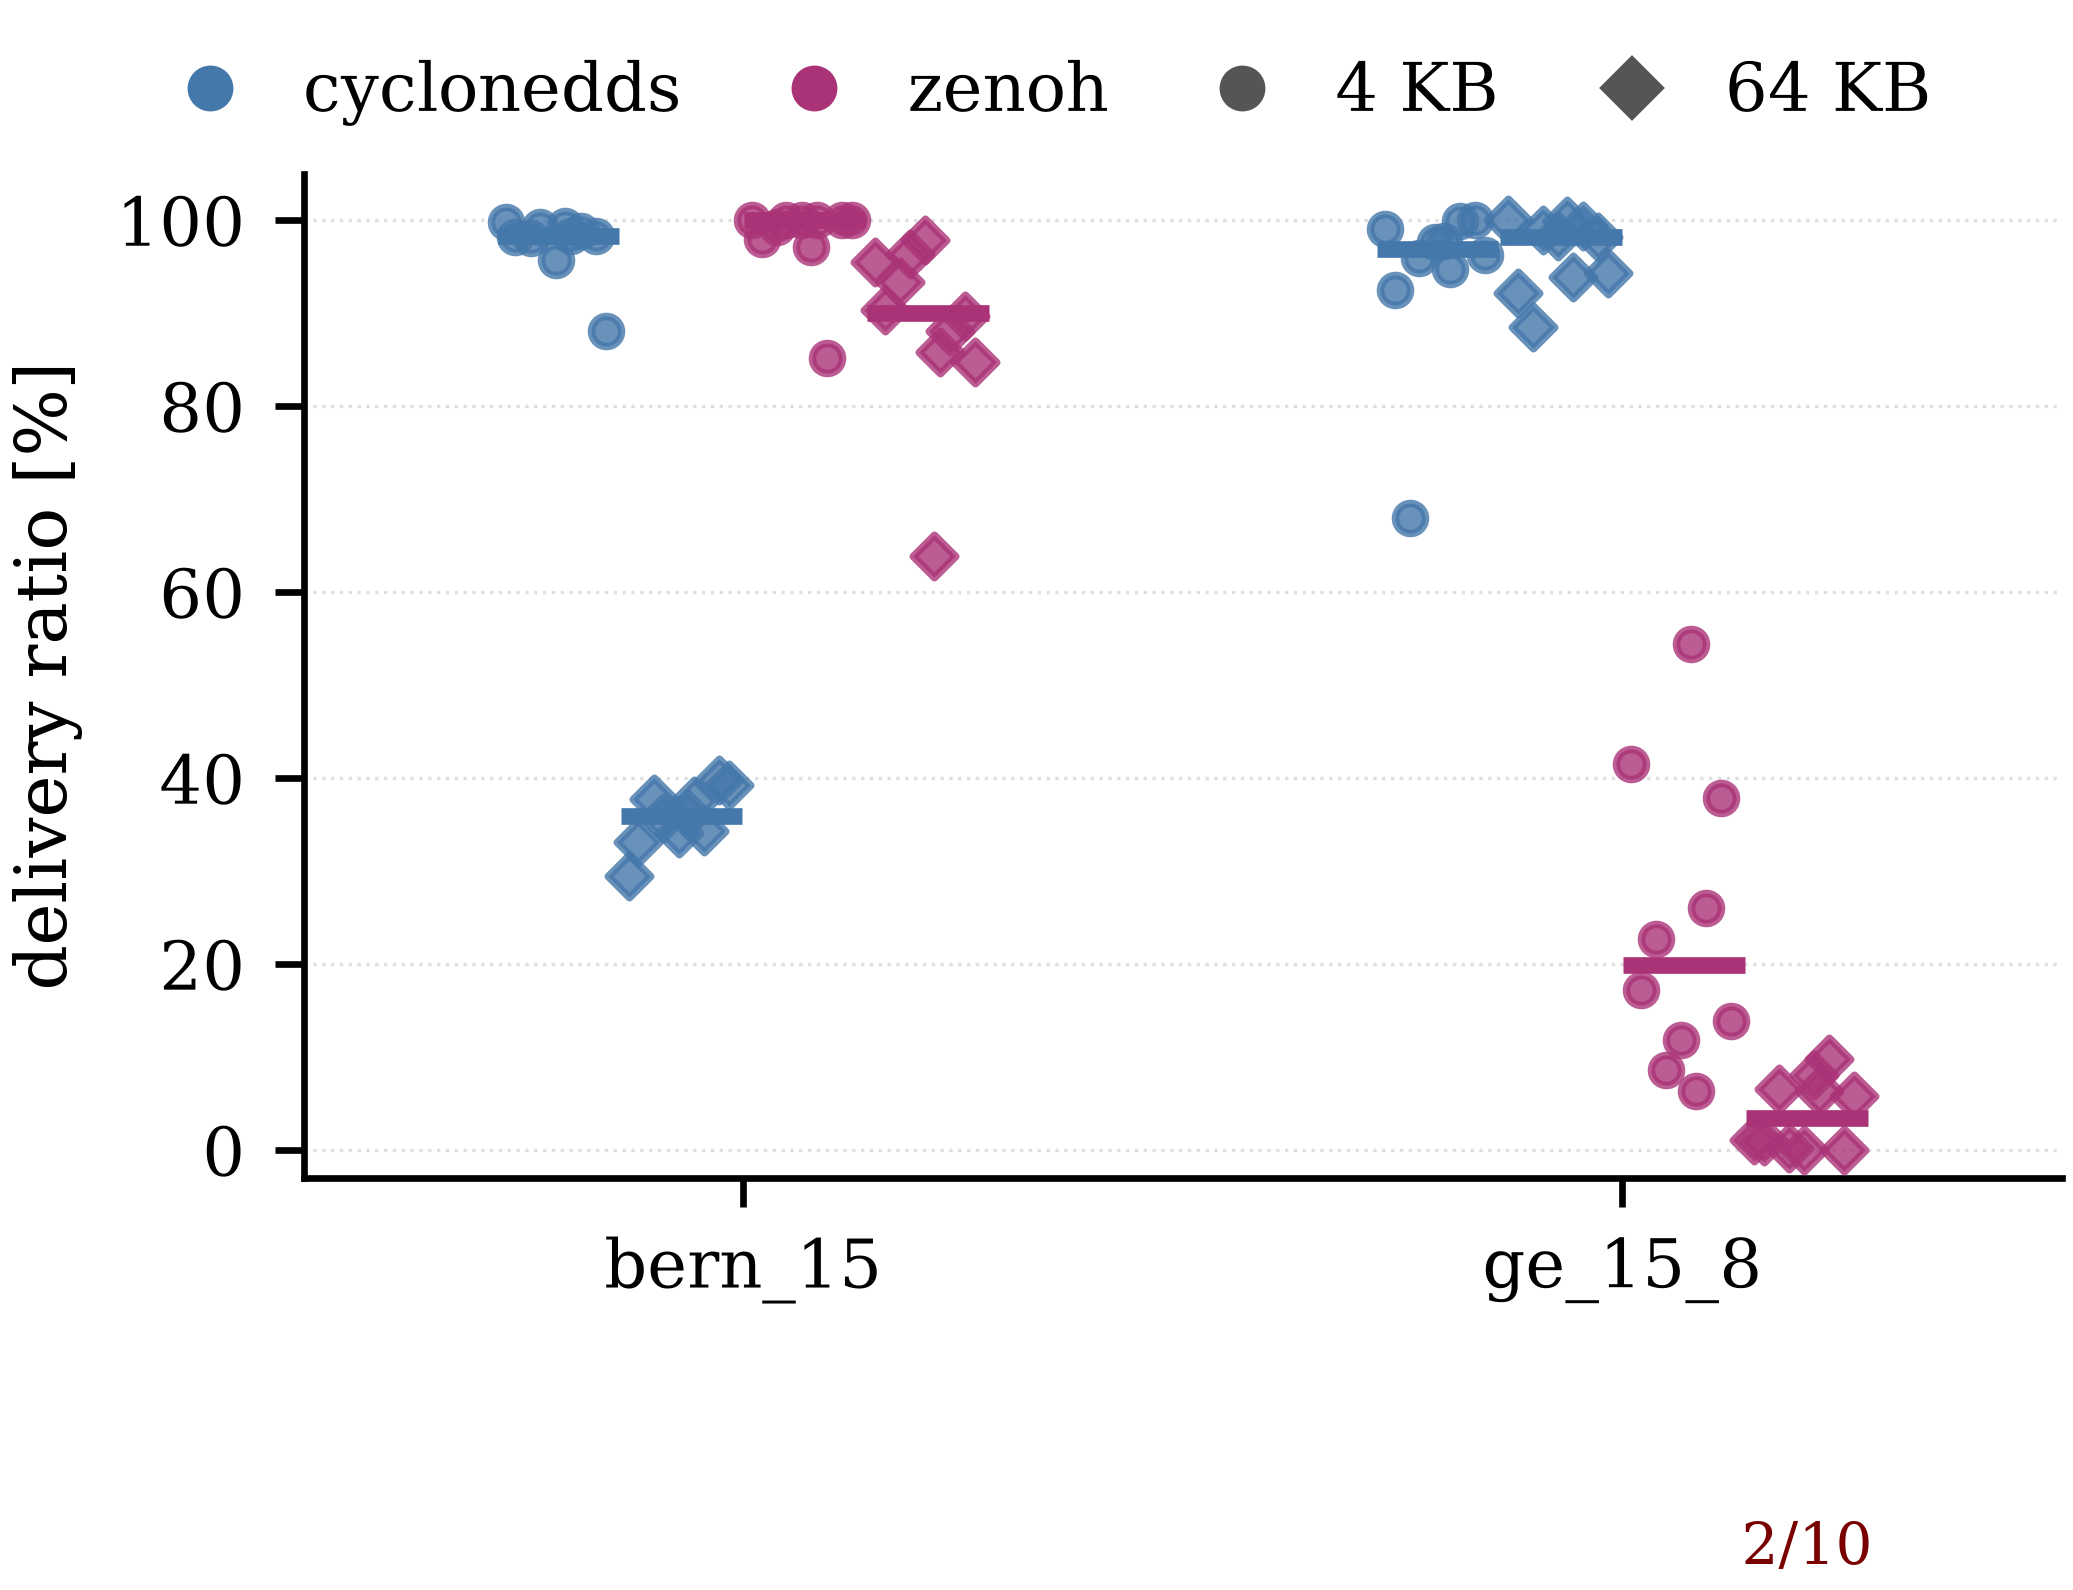
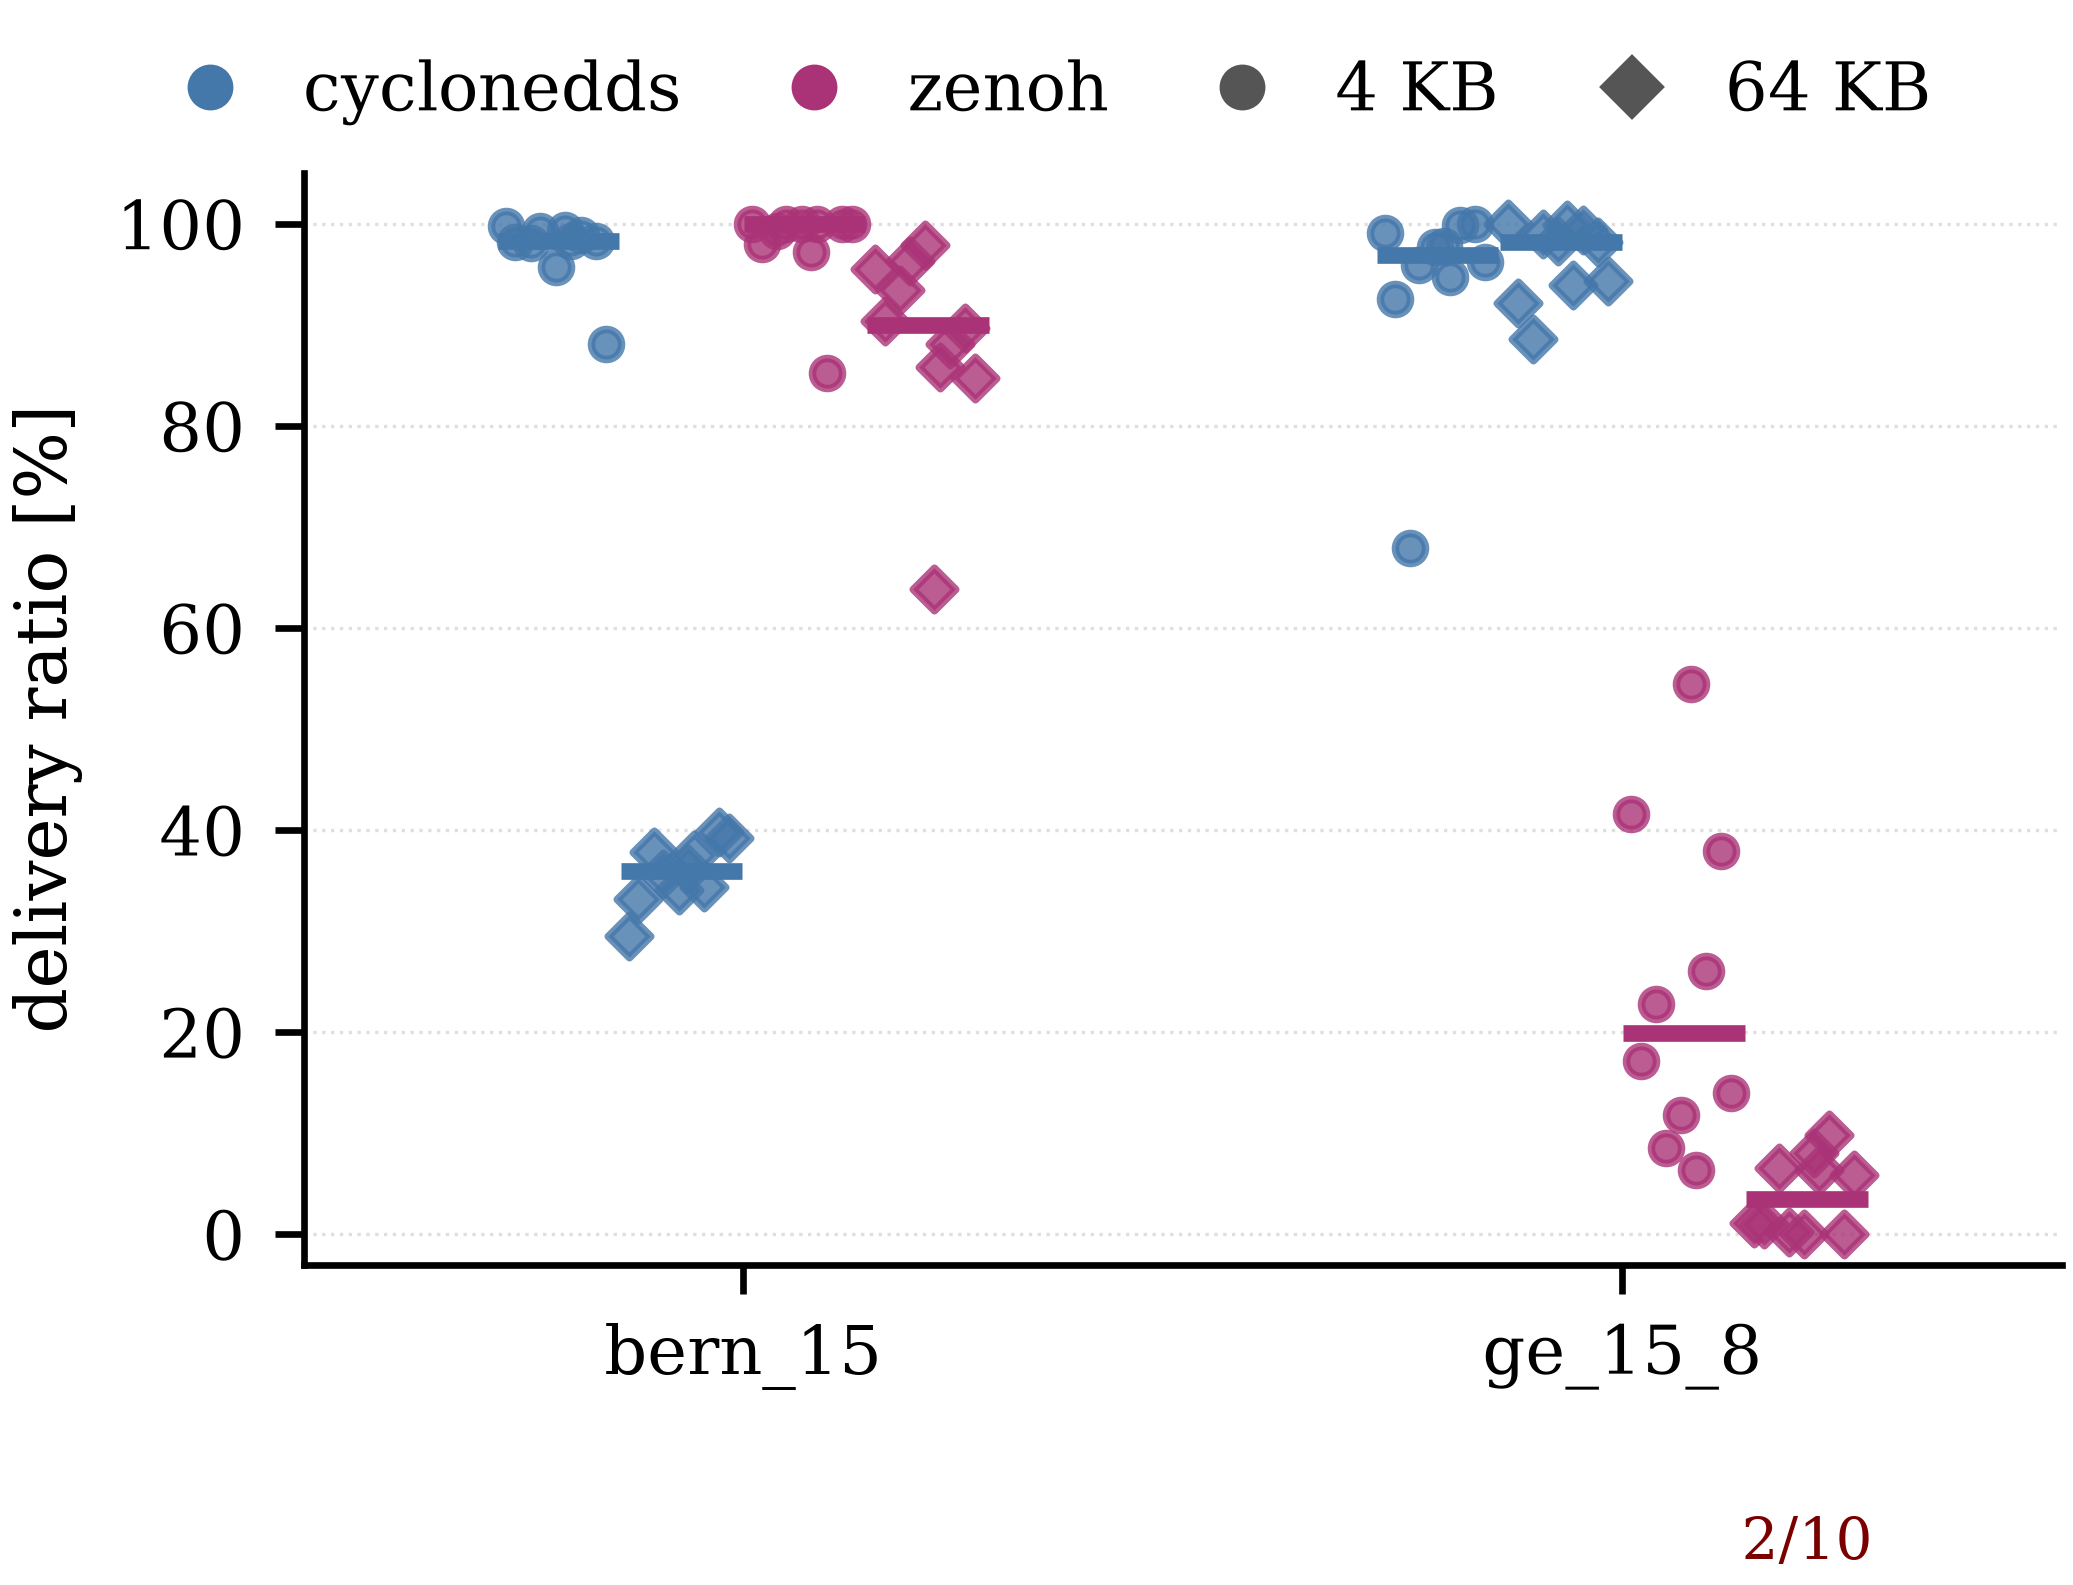
c2: make_figures_c2 v3.1 -- banda n0 ancorata in puncte sub axa (offset uniform pe toate figurile)

diff --git a/c2_analysis/make_figures_c2.py b/c2_analysis/make_figures_c2.py
@@ -134,12 +134,16 @@ MIN_PT = 7.0           # nimic sub 7 pt: sub asta textul moare la tipar
 
 JITTER = 0.08          # semi-latimea benzii de puncte (figuri late)
 JITTER_1COL = 0.06     # idem, pe o coloana: banda se ingusteaza odata cu figura
-# Banda n0 sta sub panou, dar si SUB randul de etichete de tick: la corpul de tipar (7 pt)
-# si inaltimile mici de la v3.0, vechiul -0.13 o aducea lipita de eticheta ('3' + '2/10' se
-# citeau ca un singur bloc). Perechea (N0_Y, N0_LABELPAD) e aleasa masurand distantele
-# reale dupa desenare; selftestul verifica sa nu se atinga nici de tick-uri, nici de titlul
-# de axa.
-N0_Y = -0.34           # pozitia benzii n0, in fractiuni de axa (NEGATIV = sub panou)
+# Banda n0 sta sub panou, dar si SUB randul de etichete de tick. v3.1: pozitia se da in
+# PUNCTE TIPOGRAFICE sub axa, nu in fractiuni de axa. Fractiunea se scaleaza cu inaltimea
+# panoului, deci acelasi -0.34 insemna alta distanta fizica pe o figura de 2.3 in fata de
+# una de 2.8 in; in puncte, distanta e aceeasi peste tot, ca si corpul de litera.
+# 30, nu 26: masurat pe figurile reale, eticheta de tick pe DOUA randuri ('1' + '(bern)')
+# coboara 26.6 pt sub axa, deci 26 ar cadea chiar peste ea. La 30 pt banda are ~3 pt aer
+# si deasupra (fata de tick-uri) si dedesubt (fata de titlul axei, care incepe la 42.6 pt
+# datorita lui N0_LABELPAD). Cifrele sunt verificate de aserttiile geometrice, pe toate
+# figurile care au benzi.
+N0_OFFSET_PT = 30      # cat de jos sub axa sta banda n0 (puncte)
 N0_LABELPAD = 16       # cat coboara titlul axei x, ca banda n0 sa aiba rand propriu
 
 
@@ -174,13 +178,17 @@ def strip_cell(ax, x_center, values, color, marker="o", hollow=False, size=13,
 
 
 def n0_band(ax, x, k, N):
-    """Eticheta 'k/N' (rulari cu received=0) in BANDA DE SUB AXA: x in coordonate de date,
-    y in fractiuni de axa (negativ), clip_on=False ca sa nu fie taiata de panou.
-    NU se deseneaza niciodata in interiorul axelor -- acolo ar acoperi exact punctele pe
-    care figura vrea sa le arate. Apelantul decide cand o cheama (de regula doar k>0).
-    Intoarce obiectul Text, ca sa poata fi verificat geometric in selftest."""
-    return ax.text(x, N0_Y, "%d/%d" % (k, N), transform=ax.get_xaxis_transform(),
-                   ha="center", va="top", fontsize=MIN_PT, color=RECV0, clip_on=False)
+    """Eticheta 'k/N' (rulari cu received=0) in BANDA DE SUB AXA: ancorata la baza axei
+    (y=0 in transformarea axei x, x in coordonate de date) si coborata cu N0_OFFSET_PT
+    PUNCTE. Offsetul in puncte, nu in fractiuni de axa, e ce face banda sa cada la aceeasi
+    distanta fizica pe toate figurile, indiferent de inaltimea lor.
+    clip_on=False: nu se taie la marginea panoului. NU se deseneaza niciodata in interiorul
+    axelor -- acolo ar acoperi exact punctele pe care figura vrea sa le arate. Apelantul
+    decide cand o cheama (de regula doar k>0). Intoarce obiectul Annotation, verificabil
+    geometric in selftest."""
+    return ax.annotate("%d/%d" % (k, N), xy=(x, 0), xycoords=ax.get_xaxis_transform(),
+                       xytext=(0, -N0_OFFSET_PT), textcoords="offset points",
+                       ha="center", va="top", fontsize=MIN_PT, color=RECV0, clip_on=False)
 
 
 def salveaza(fig, nume, out=None):
@@ -554,9 +562,12 @@ def _selftest():
             for c in conds4:
                 scrie(rmw, c, [80, 75, 70, 65, 60, 55, 50, 45, 40, 35])
             scrie(rmw, "lat200_jit50", [90] * 10)
-            scrie(rmw, "lat200_jit50_ge_15_8", [30] * 10)
+            # combo cu 2 rulari moarte -> F3 CHIAR primeste o banda n0, ca aserttiile
+            # geometrice sa nu treaca pe gol acolo
+            scrie(rmw, "lat200_jit50_ge_15_8", [0, 0] + [30] * 8)
             for c in ("bern_15", "ge_15_8"):
-                scrie(rmw, c, [20] * 10, payload=65536)
+                # 3 rulari moarte la 64KB -> F2 primeste si ea banda n0
+                scrie(rmw, c, [0, 0, 0] + [20] * 7, payload=65536)
         # celula cu 9 rulari moarte din 10 -- cazul care trebuie sa produca banda n0
         shutil.rmtree(os.path.join(root, "zenoh", "ge_30_8"))
         scrie("zenoh", "ge_30_8", [0] * 9 + [12])
@@ -577,16 +588,21 @@ def _selftest():
         assert _jitter(1) == [0.0]
         plt.close(fig)
 
-        # n0_band: SUB axa (y negativ in fractiuni de axa), netaiata de panou
-        fig, ax = plt.subplots()
-        t = n0_band(ax, 1.0, 9, 10)
-        assert t.get_text() == "9/10", t.get_text()
-        assert t.get_position()[1] < 0, t.get_position()
-        assert t.get_clip_on() is False
-        fig.canvas.draw()
-        y_disp = t.get_transform().transform(t.get_position())[1]
-        assert y_disp < ax.get_window_extent().y0, "banda n0 a intrat in panou"
-        plt.close(fig)
+        # n0_band: SUB axa, netaiata de panou, si la aceeasi distanta FIZICA indiferent
+        # de inaltimea figurii (v3.1: offset in puncte, nu in fractiuni de axa)
+        distante = []
+        for inaltime in (2.3, 2.8):
+            fig, ax = plt.subplots(figsize=(3.5, inaltime))
+            t = n0_band(ax, 1.0, 9, 10)
+            assert t.get_text() == "9/10", t.get_text()
+            assert t.get_clip_on() is False
+            fig.canvas.draw()
+            assert t.get_window_extent().y1 < ax.get_window_extent().y0, \
+                "banda n0 a intrat in panou"
+            distante.append(ax.get_window_extent().y0 - t.get_window_extent().y1)
+            plt.close(fig)
+        assert abs(distante[0] - distante[1]) < 0.5, \
+            "banda n0 nu e la aceeasi distanta fizica pe inaltimi diferite: %s" % distante
 
         # axa secundara in secunde: TREBUIE sa fie aliniata cu cea in pachete, altfel
         # figura minte (vezi axa_secundara_secunde)
@@ -635,9 +651,11 @@ def _selftest():
             assert not mici, "%s: text sub %g pt: %s" % (nume, MIN_PT, mici)
             # banda n0 are RAND PROPRIU: nu atinge nici etichetele de tick, nici titlul
             # axei x (la corp de tipar se lipeau: '3' + '2/10' se citeau ca un bloc)
+            benzi_pe_figura = 0
             for ax in axs:
                 benzi = [t for t in ax.texts if t.get_text().count("/") == 1
                          and t.get_text().replace("/", "").isdigit()]
+                benzi_pe_figura += len(benzi)
                 if not benzi:
                     continue
                 tick_jos = min(t.get_window_extent().y0 for t in ax.get_xticklabels()
@@ -648,6 +666,10 @@ def _selftest():
                 if (et.get_text() or "").strip():
                     assert min(t.get_window_extent().y0 for t in benzi) > \
                         et.get_window_extent().y1, "%s: banda n0 atinge titlul axei" % nume
+            # F1-F3 TREBUIE sa aiba benzi (datele sintetice contin rulari moarte), altfel
+            # verificarea de mai sus ar trece pe gol. F4 nu are: nu deseneaza livrare.
+            if nume.startswith(("F1", "F2", "F3")):
+                assert benzi_pe_figura > 0, "%s: nicio banda n0 -- verificarea nu a mordat" % nume
             plt.close(f)
 
         # v3.0: PDF-ul (canonic) exista, iar PNG-ul poarta chiar 600 dpi
@@ -700,7 +722,7 @@ def _selftest():
         ax, t = gasite[0]
         assert t.get_transform().transform(t.get_position())[1] < ax.get_window_extent().y0
         plt.close(fig)
-        print("SELFTEST make_figures_c2 OK (34 verificari, date sintetice in /tmp; "
+        print("SELFTEST make_figures_c2 OK (35 verificari, date sintetice in /tmp; "
               "dimensiuni fizice + corp de litera >= %g pt + PDF/PNG@%d dpi; banda n0 "
               "verificata geometric; legende confruntate pe proprietati cu artefactele "
               "desenate). Serif: %s." % (MIN_PT, DPI_PNG, SERIF))
